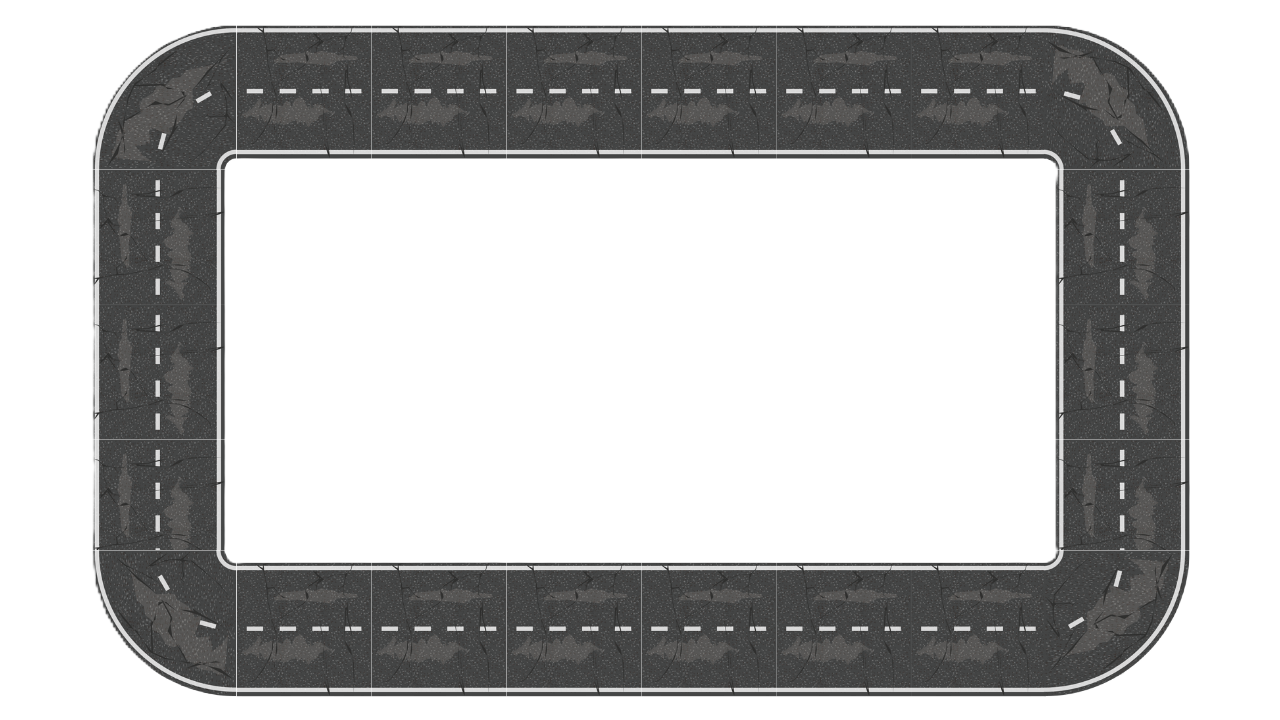
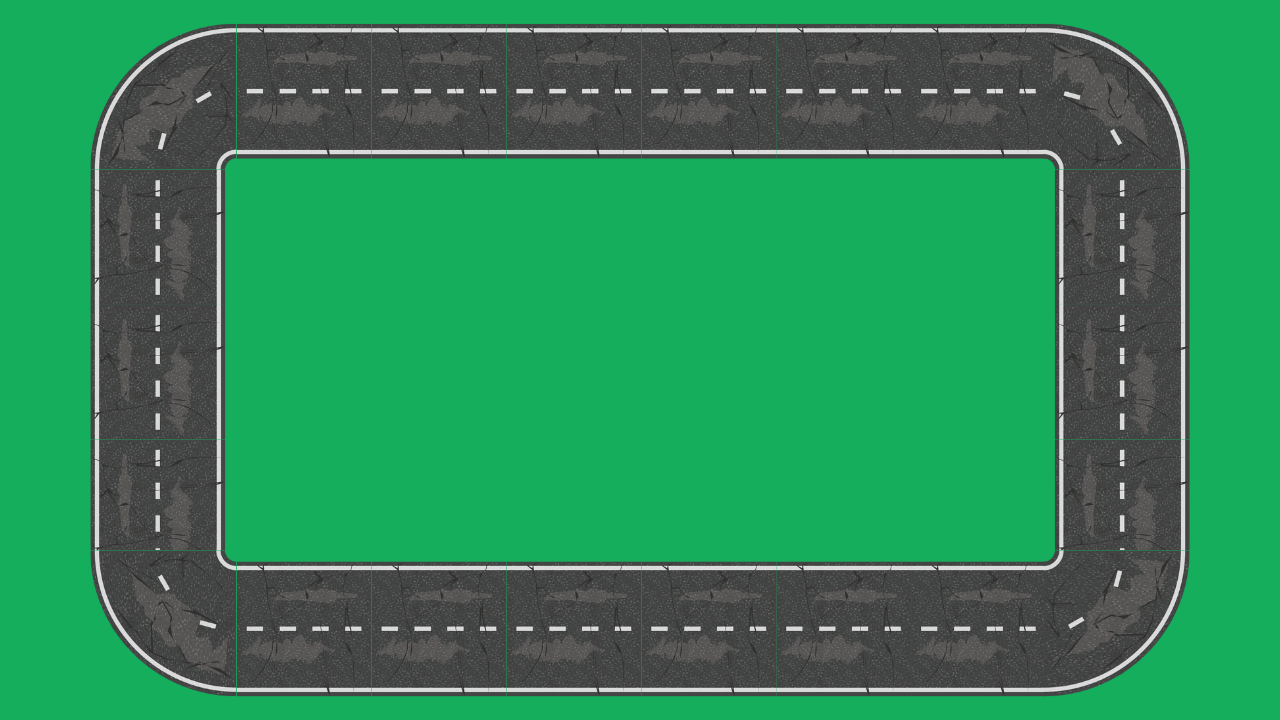
update

diff --git a/main.py b/main.py
@@ -8,24 +8,6 @@ clock = pygame.time.Clock()
 
 track_img = pygame.image.load(os.path.join("assets","track_assets","track.png"))
 
-#this function will return the positions of the tiles and the background image
-def background(background_name):
-    path = os.path.join("assets","Background_Tiles",background_name)
-    background_img =  pygame.image.load(path).convert_alpha()
-    _,_,width,height = background_img .get_rect()
-    positions = []
-    for i in range(WIDTH//width+1):
-        for j in range(HEIGHT//height+1):
-            positions.append((i*width,j*height))
-    return positions , background_img
-
-def draw_background():
-    #you can change the background by choosing one of these names :
-    #"Grass_Tile.png" or "Soil_Tile.png"
-    positions , background_img = background("Grass_Tile.png")
-    for pos in positions:
-        screen.blit(background_img,pos)
-
 class Car():
     #you can change the background by choosing one of these names :
     #"WhiteStrip.png" , "GreenStrip.png" , "BlueStrip.png" , "PinkStrip.png"
@@ -40,6 +22,7 @@ class Car():
         self.max_speed = 7
         self.angle = 0
         self.rotation_speed = 3
+        self.alive = True
 
     def move(self):
         press = pygame.key.get_pressed()
@@ -64,9 +47,77 @@ class Car():
         radians = math.radians(self.angle)
         self.rect.x += self.car_speed * math.cos(radians)
         self.rect.y -= self.car_speed * math.sin(radians)
-             
+
+    def radar(self):
+        
+        radar_angles_list = [-60,-30,0,30,60]
+        
+        x = int(self.rect.centerx)
+        y = int(self.rect.centery)
+
+        for radar_angle in radar_angles_list:
+            radar_length = 0
+            angle_radians = math.radians(self.angle + radar_angle)
+            while radar_length < 200:
+                # Calculate new position for radar point
+                x = int(self.rect.centerx + radar_length * math.cos(angle_radians))
+                y = int(self.rect.centery - radar_length * math.sin(angle_radians))
+            
+                # Stop radar if it hits black or goes out of bounds
+                if (0 <= x < WIDTH and 0 <= y < HEIGHT):
+                    if screen.get_at((x, y)) == pygame.Color(20, 174, 92 , 255):  # Check for color
+                        break
+                else:
+                    break
+
+                radar_length += 1
+
+            #draw the radar
+            pygame.draw.line(screen,(255,255,255),self.rect.center,(x,y),2)
+            pygame.draw.circle(screen,(255,255,255),(x,y),4)
+    
+    def collision(self):
+                                            #GET HEADLIGHT COLLISION POINTS
+        angle_radians = math.radians(self.angle)
+
+        #Offset Calculation for the Front of the Car
+        #27 is half the the length of the car image
+        front_offset_x = 27 * math.cos(angle_radians)
+        front_offset_y = -27 * math.sin(angle_radians)
+
+        #Placing the Collision Points at the Headlights
+        right_headlight = (int(self.rect.centerx + front_offset_x + math.sin(angle_radians) * 12),
+                           int(self.rect.centery + front_offset_y + math.cos(angle_radians) * 12))
+        
+        left_headlight = (int(self.rect.centerx + front_offset_x - math.sin(angle_radians) * 12),
+                          int(self.rect.centery + front_offset_y - math.cos(angle_radians) * 12))
+        
+        # Draw collision points for visualization
+
+        #if you uncomment the two lines below , the color detection in the CHECK COLLISION section will not work \
+        # because it will detect the headlight colors instead of the background color
+
+        #pygame.draw.circle(screen, (195, 255, 0), right_headlight, 3)  # Right headlight in blue
+        #pygame.draw.circle(screen, (195, 255, 0), left_headlight, 3)   # Left headlight in red
+
+                                            #CHECK COLLISION
+        right_x, right_y = right_headlight
+        left_x, left_y = left_headlight
+    
+        # Ensure the coordinates are within bounds before checking pixel color
+        if 0 <= right_x < WIDTH and 0 <= right_y < HEIGHT and screen.get_at(right_headlight) == pygame.Color(20, 174, 92, 255) : 
+            self.alive = False
+            print("Collision detected at right headlight!")
+            
+        if (0 <= left_x < WIDTH and 0 <= left_y < HEIGHT and 
+            (screen.get_at(left_headlight) == pygame.Color(20, 174, 92, 255))):
+            self.alive = False
+            print("Collision detected at left headlight!")
+        
     def update_car(self):
         self.move()
+        self.radar()
+        self.collision()
         self.draw()
         
     def draw(self):
@@ -85,7 +136,6 @@ def main():
                 pygame.quit()
                 sys.exit()
 
-        draw_background()
         screen.blit(track_img,(0,0))
         car.update_car()
         pygame.display.flip()
